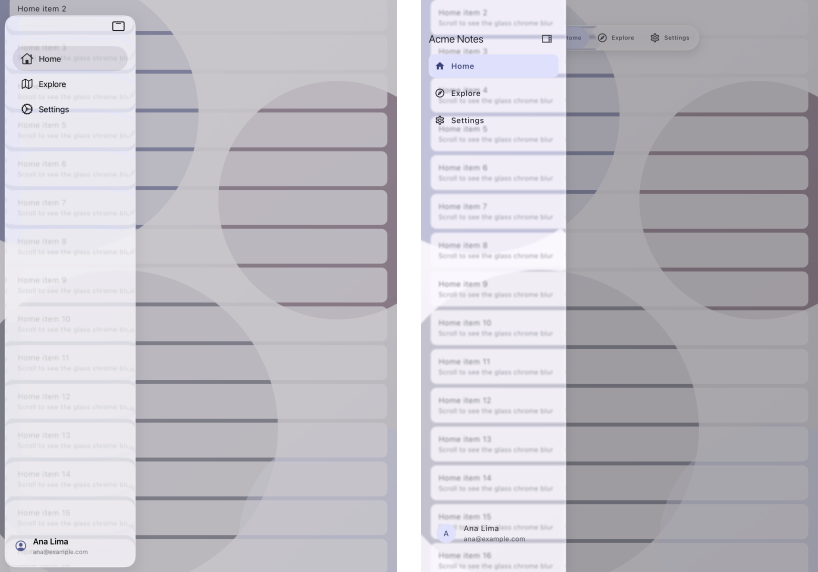
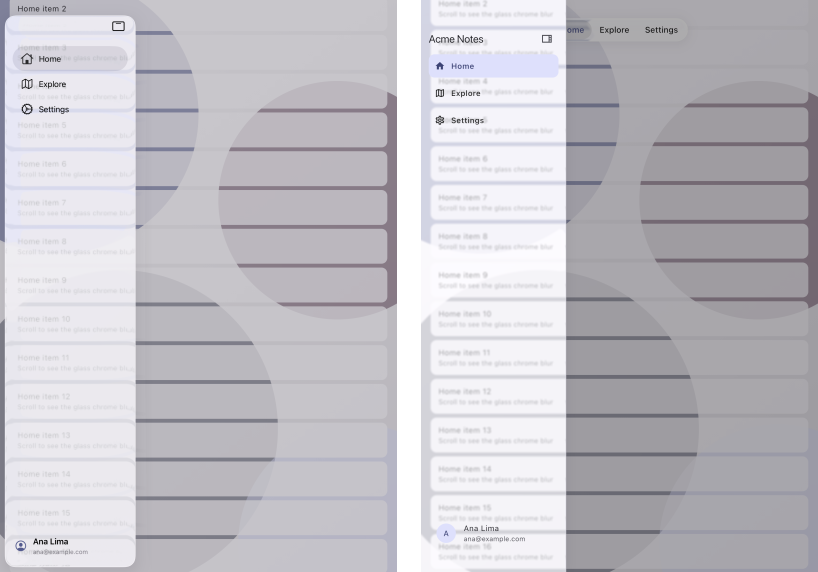
docs(example): regenerate the README native vs liquid comparisons (VK-503)
make compare-images on fresh iPhone 17 Pro and iPad Air 11" iOS 26.5
simulators and a fresh Android 16 (API 36) Pixel 9 emulator, all created
and deleted by the run; the three README images were stale since
Task 13 (Task 13 review, "accepted").

liquid_compare_test scrolled down, then back up "to expand the bar".
Since VK-503 (Q7) scrolling back no longer expands it, so the first
run's Flutter shots showed the 48 pt circle beside the full native bar.
The test now taps the circle when the Flutter bar is minimized, as a
user does.

native_reference.json: the drag-lag note says what the new strips show
(the native drag starts 2 to 5 rows after Flutter's, by driver).

diff --git a/liquid_shell/example/integration_test/liquid_compare_test.dart b/liquid_shell/example/integration_test/liquid_compare_test.dart
@@ -6,6 +6,8 @@ import 'package:flutter/material.dart';
 import 'package:flutter_test/flutter_test.dart';
 import 'package:integration_test/integration_test.dart';
 import 'package:liquid_shell/liquid_shell.dart';
+// The pill key is test-only and stays out of the public API.
+import 'package:liquid_shell/src/chrome/glass_tab_bar.dart' show kTabPillKey;
 import 'package:liquid_shell_example/main.dart';
 import 'package:liquid_shell_example/support/demo_page.dart';
 
@@ -118,12 +120,20 @@ void main() {
         }
 
         // Scroll so cards and wallpaper sit under the chrome, then back a
-        // little: scrolling down minimises the Flutter bar (the native one
-        // does not), scrolling up expands it again.
+        // little. Scrolling down minimises the Flutter bar (the native one
+        // does not), and since VK-503 (Q7) scrolling back does not expand
+        // it: a tap on its circle does, as on iOS 26.
         final list = find.byType(Scrollable).first;
         await tester.drag(list, const Offset(0, -340));
         await tester.pumpAndSettle();
         await tester.drag(list, const Offset(0, 40));
+        await tester.pumpAndSettle();
+        final pill = find.byKey(kTabPillKey);
+        if (mode != 'native' &&
+            pill.evaluate().length == 1 &&
+            tester.getSize(pill) == const Size(48, 48)) {
+          await tester.tapAt(tester.getCenter(pill));
+        }
         // The bar's expand animation can still be running on the device
         // after pumpAndSettle: give it time, or the shot catches it half way.
         await _settle(tester);
